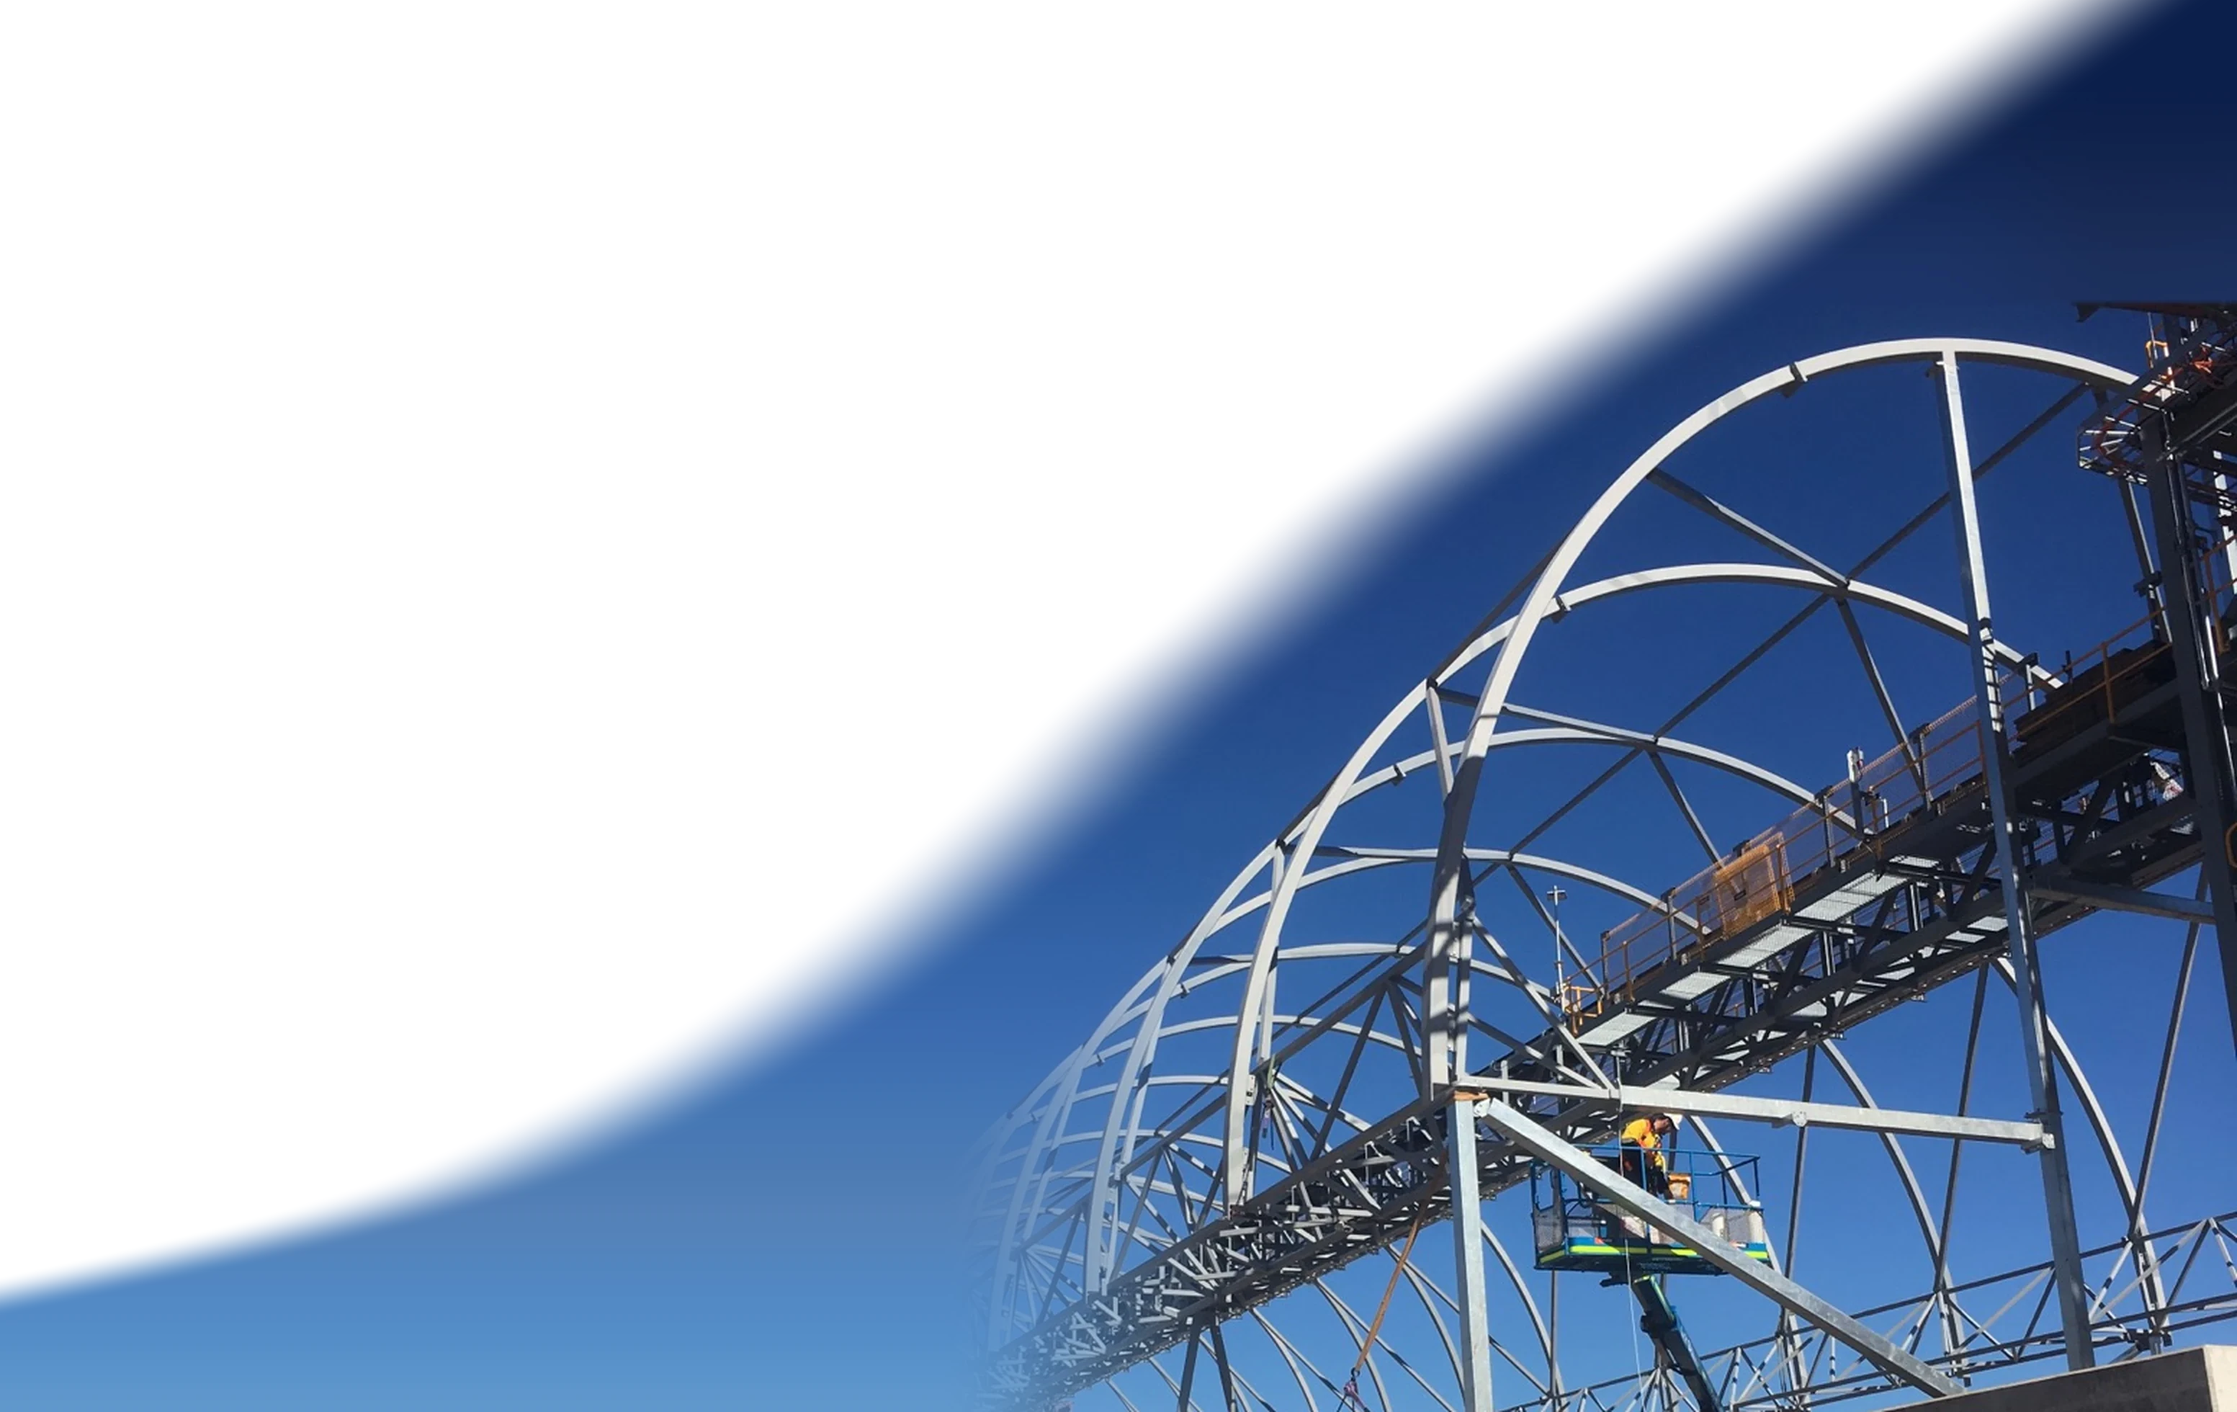
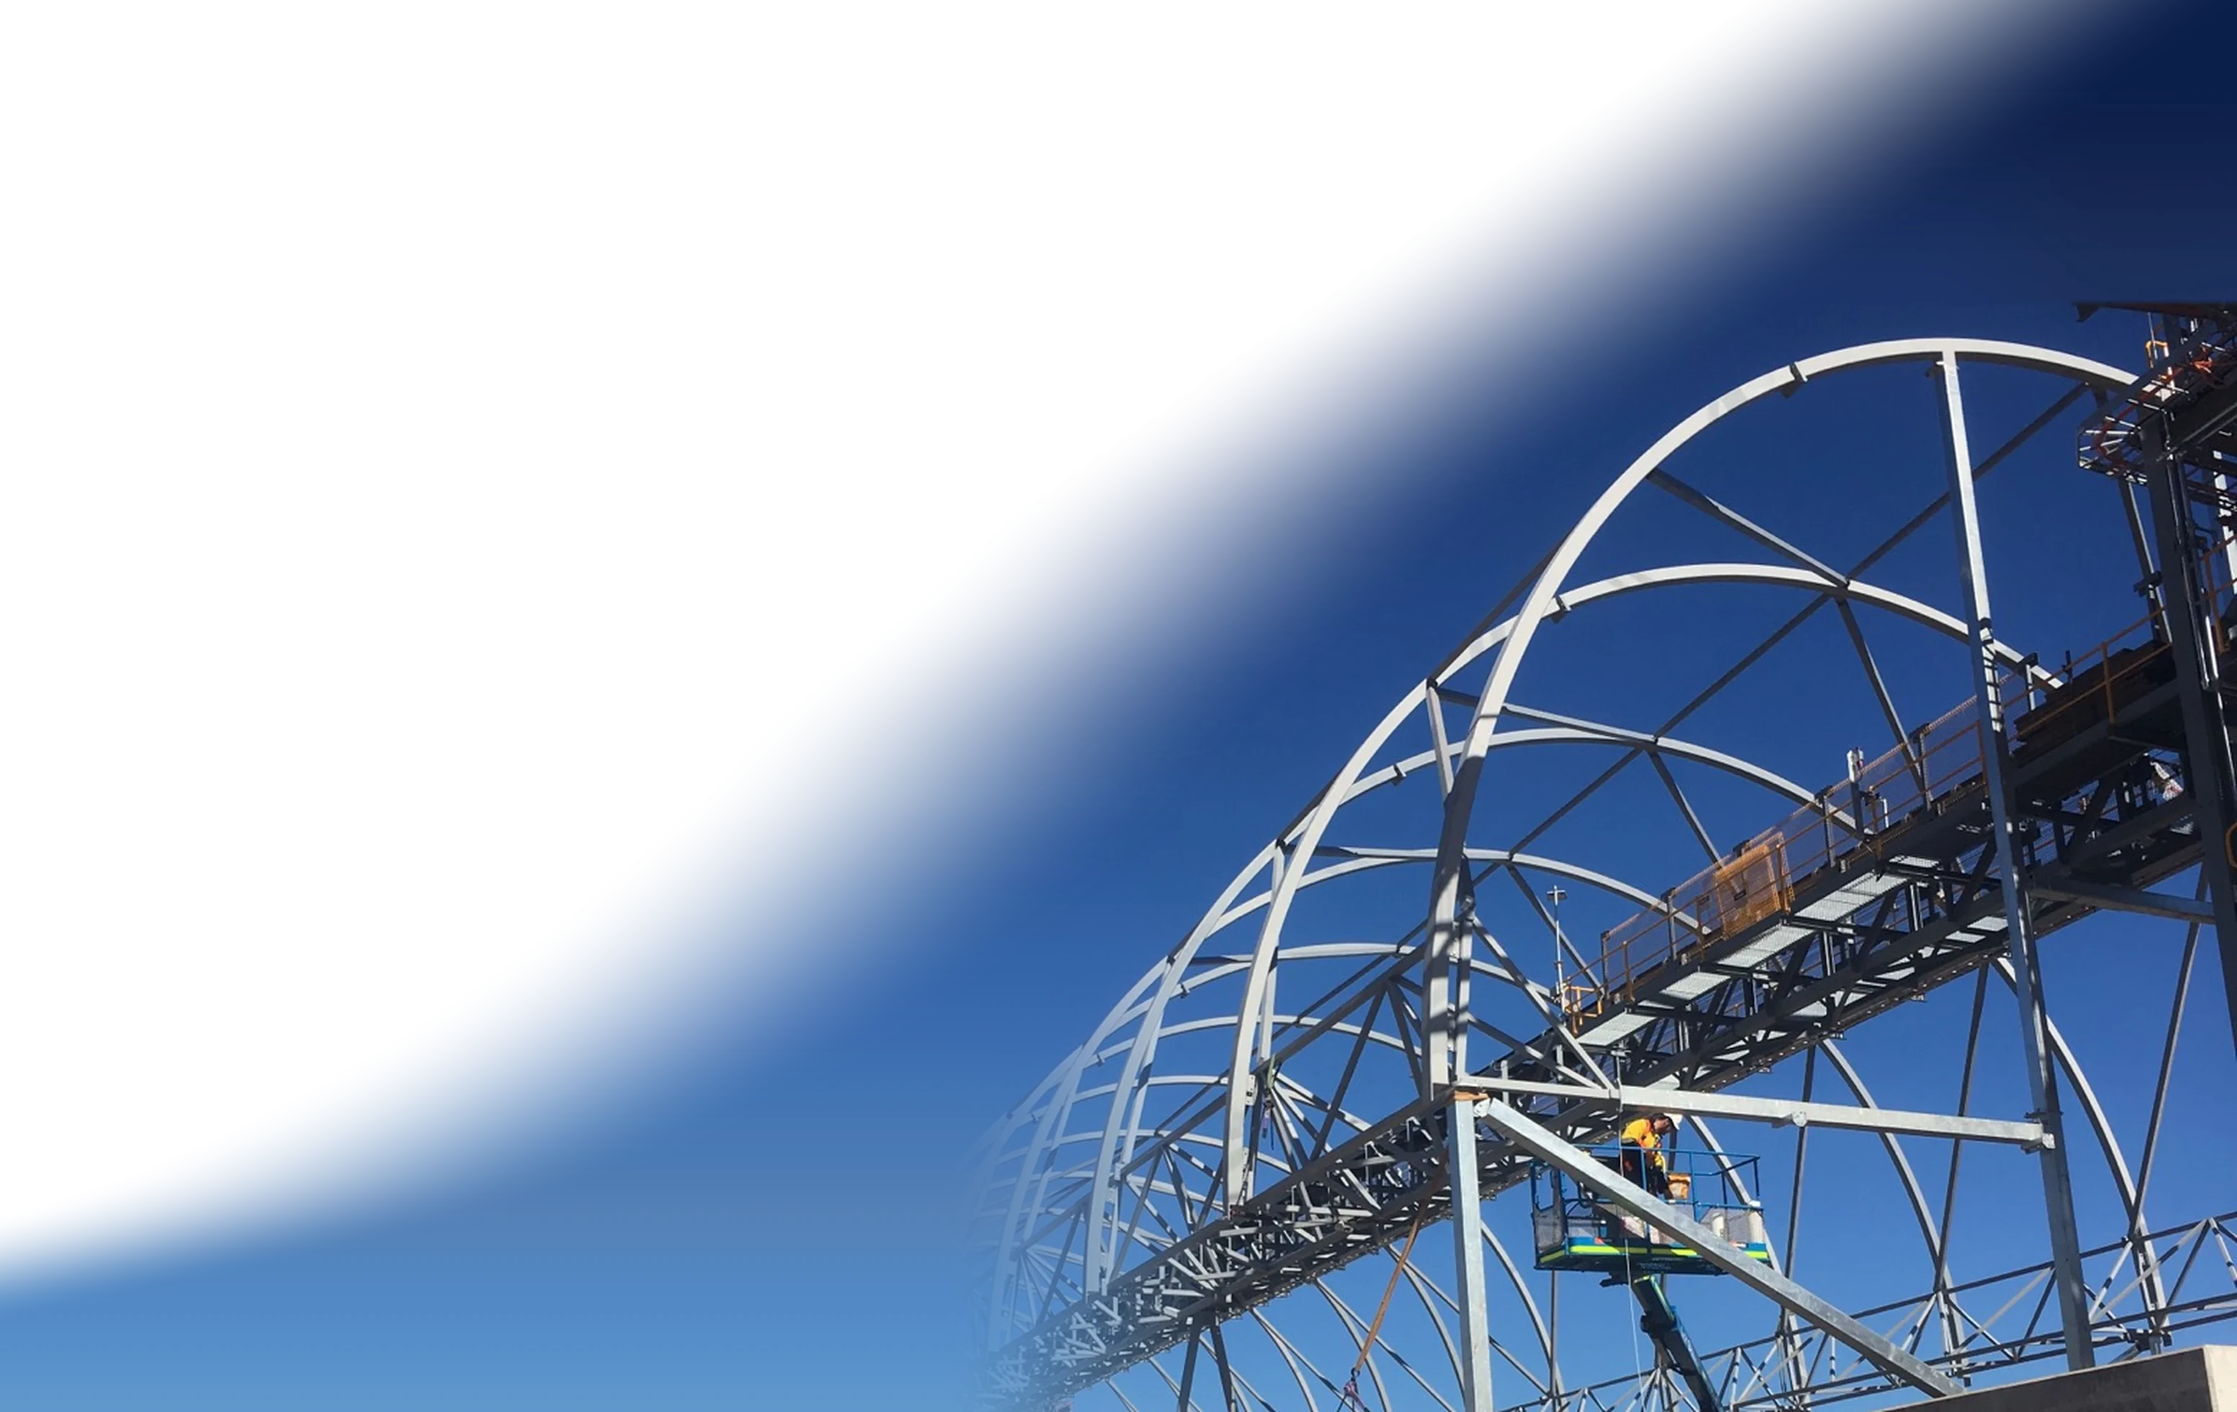
Hero photo: soft wide fade along the whole diagonal edge, matching the bottom fade
Claude-Session: https://claude.ai/code/session_0158Fftx2yiYDSvStLzRsbkD

Changed region(s): [[0.0, 0.0, 0.9681, 0.9337]]

diff --git a/site/index.html b/site/index.html
@@ -2,16 +2,16 @@
 <html lang="en">
 <head>
 <meta charset="utf-8">
-<meta name="build" content="57">
+<meta name="build" content="58">
 <meta name="viewport" content="width=device-width, initial-scale=1, viewport-fit=cover">
 <meta name="description" content="GuruCADD: production drawings, conceptual sales drawings, light gauge modular building design and CAD-to-ERP integration for fabric structures and steel fabricators. Based in Khulna, Bangladesh.">
 <meta property="og:title" content="GuruCADD | Designing Excellence">
 <meta property="og:description" content="CAD and steel detailing for fabric structures, steel frames and modular buildings.">
-<meta property="og:image" content="https://www.gurucadd.com/images/hero-site.webp?v=57">
+<meta property="og:image" content="https://www.gurucadd.com/images/hero-site.webp?v=58">
 <link rel="icon" type="image/png" href="images/favicon.png">
 <link rel="canonical" href="https://www.gurucadd.com/">
 <meta property="og:type" content="website"><meta property="og:url" content="https://www.gurucadd.com/"><meta name="twitter:card" content="summary_large_image">
-<script type="application/ld+json">{"@context":"https://schema.org","@type":"ProfessionalService","name":"GuruCADD","description":"CAD and steel detailing, conceptual sales drawings, light gauge modular building design and CAD-to-ERP integration.","url":"https://www.gurucadd.com/","logo":"https://www.gurucadd.com/images/favicon.png","image":"https://www.gurucadd.com/images/hero-site.webp?v=57","telephone":"+880 1711 902929","email":"info@gurucadd.com","address":{"@type":"PostalAddress","streetAddress":"E4 Khalishpur","addressLocality":"Khulna","postalCode":"9000","addressCountry":"BD"}}</script>
+<script type="application/ld+json">{"@context":"https://schema.org","@type":"ProfessionalService","name":"GuruCADD","description":"CAD and steel detailing, conceptual sales drawings, light gauge modular building design and CAD-to-ERP integration.","url":"https://www.gurucadd.com/","logo":"https://www.gurucadd.com/images/favicon.png","image":"https://www.gurucadd.com/images/hero-site.webp?v=58","telephone":"+880 1711 902929","email":"info@gurucadd.com","address":{"@type":"PostalAddress","streetAddress":"E4 Khalishpur","addressLocality":"Khulna","postalCode":"9000","addressCountry":"BD"}}</script>
 <style>
 :root{padding-top:env(safe-area-inset-top,0px);padding-bottom:env(safe-area-inset-bottom,0px)}
 body{margin:0}
@@ -469,7 +469,7 @@ mask-image:linear-gradient(to right,transparent 0,#000 34%),linear-gradient(to b
 </style>
 </head>
 <body>
-<span id="build" class="bld">Ver 0.57.0</span>
+<span id="build" class="bld">Ver 0.58.0</span>
 <header>
   <div class="wrap nav">
     <a class="logo" href="#top" aria-label="GuruCADD home"><img class="dk-logo" src="images/logo-white.png" width="421" height="120" alt="GuruCADD, Designing Excellence"><img class="lt-logo" src="images/logo-color.png" width="878" height="238" alt="" aria-hidden="true"></a>
@@ -494,7 +494,7 @@ mask-image:linear-gradient(to right,transparent 0,#000 34%),linear-gradient(to b
     </div>
   </div>
   <figure class="hero-photo">
-    <img src="images/hero-site.webp?v=57" width="3106" height="1960" alt="Arched steel structure erected on site against a deep blue sky, detailed by GuruCADD">
+    <img src="images/hero-site.webp?v=58" width="3106" height="1960" alt="Arched steel structure erected on site against a deep blue sky, detailed by GuruCADD">
     <span class="ph-tag ph-right">Erected on site</span>
     <figcaption><span class="wrap cap-in"><span class="kicker">From drawing to steel</span><span>Detailed in our office, built exactly as drawn to protect your investment.</span></span></figcaption>
   </figure>

diff --git a/site/about-us.html b/site/about-us.html
@@ -2,16 +2,16 @@
 <html lang="en">
 <head>
 <meta charset="utf-8">
-<meta name="build" content="57">
+<meta name="build" content="58">
 <meta name="viewport" content="width=device-width, initial-scale=1, viewport-fit=cover">
 <meta name="description" content="A Khulna drawing office of architects, engineers and ERP specialists, with industries served and case studies.">
 <meta property="og:title" content="About us | GuruCADD">
 <meta property="og:description" content="CAD and steel detailing for fabric structures, steel frames and modular buildings.">
-<meta property="og:image" content="https://www.gurucadd.com/images/hero-site.webp?v=57">
+<meta property="og:image" content="https://www.gurucadd.com/images/hero-site.webp?v=58">
 <link rel="icon" type="image/png" href="images/favicon.png">
 
 <meta property="og:type" content="website"><meta property="og:url" content="https://www.gurucadd.com/"><meta name="twitter:card" content="summary_large_image">
-<script type="application/ld+json">{"@context":"https://schema.org","@type":"ProfessionalService","name":"GuruCADD","description":"CAD and steel detailing, conceptual sales drawings, light gauge modular building design and CAD-to-ERP integration.","url":"https://www.gurucadd.com/","logo":"https://www.gurucadd.com/images/favicon.png","image":"https://www.gurucadd.com/images/hero-site.webp?v=57","telephone":"+880 1711 902929","email":"info@gurucadd.com","address":{"@type":"PostalAddress","streetAddress":"E4 Khalishpur","addressLocality":"Khulna","postalCode":"9000","addressCountry":"BD"}}</script>
+<script type="application/ld+json">{"@context":"https://schema.org","@type":"ProfessionalService","name":"GuruCADD","description":"CAD and steel detailing, conceptual sales drawings, light gauge modular building design and CAD-to-ERP integration.","url":"https://www.gurucadd.com/","logo":"https://www.gurucadd.com/images/favicon.png","image":"https://www.gurucadd.com/images/hero-site.webp?v=58","telephone":"+880 1711 902929","email":"info@gurucadd.com","address":{"@type":"PostalAddress","streetAddress":"E4 Khalishpur","addressLocality":"Khulna","postalCode":"9000","addressCountry":"BD"}}</script>
 <style>
 :root{padding-top:env(safe-area-inset-top,0px);padding-bottom:env(safe-area-inset-bottom,0px)}
 body{margin:0}
@@ -470,7 +470,7 @@ mask-image:linear-gradient(to right,transparent 0,#000 34%),linear-gradient(to b
 <link rel="canonical" href="https://www.gurucadd.com/about-us.html">
 </head>
 <body>
-<span id="build" class="bld">Ver 0.57.0</span>
+<span id="build" class="bld">Ver 0.58.0</span>
 <header>
   <div class="wrap nav">
     <a class="logo" href="index.html" aria-label="GuruCADD home"><img class="dk-logo" src="images/logo-white.png" width="421" height="120" alt="GuruCADD, Designing Excellence"><img class="lt-logo" src="images/logo-color.png" width="878" height="238" alt="" aria-hidden="true"></a>

diff --git a/site/services.html b/site/services.html
@@ -2,16 +2,16 @@
 <html lang="en">
 <head>
 <meta charset="utf-8">
-<meta name="build" content="57">
+<meta name="build" content="58">
 <meta name="viewport" content="width=device-width, initial-scale=1, viewport-fit=cover">
 <meta name="description" content="Production drawings, conceptual sales drawings, ERP integration and light gauge modular building design.">
 <meta property="og:title" content="Services | GuruCADD">
 <meta property="og:description" content="CAD and steel detailing for fabric structures, steel frames and modular buildings.">
-<meta property="og:image" content="https://www.gurucadd.com/images/hero-site.webp?v=57">
+<meta property="og:image" content="https://www.gurucadd.com/images/hero-site.webp?v=58">
 <link rel="icon" type="image/png" href="images/favicon.png">
 
 <meta property="og:type" content="website"><meta property="og:url" content="https://www.gurucadd.com/"><meta name="twitter:card" content="summary_large_image">
-<script type="application/ld+json">{"@context":"https://schema.org","@type":"ProfessionalService","name":"GuruCADD","description":"CAD and steel detailing, conceptual sales drawings, light gauge modular building design and CAD-to-ERP integration.","url":"https://www.gurucadd.com/","logo":"https://www.gurucadd.com/images/favicon.png","image":"https://www.gurucadd.com/images/hero-site.webp?v=57","telephone":"+880 1711 902929","email":"info@gurucadd.com","address":{"@type":"PostalAddress","streetAddress":"E4 Khalishpur","addressLocality":"Khulna","postalCode":"9000","addressCountry":"BD"}}</script>
+<script type="application/ld+json">{"@context":"https://schema.org","@type":"ProfessionalService","name":"GuruCADD","description":"CAD and steel detailing, conceptual sales drawings, light gauge modular building design and CAD-to-ERP integration.","url":"https://www.gurucadd.com/","logo":"https://www.gurucadd.com/images/favicon.png","image":"https://www.gurucadd.com/images/hero-site.webp?v=58","telephone":"+880 1711 902929","email":"info@gurucadd.com","address":{"@type":"PostalAddress","streetAddress":"E4 Khalishpur","addressLocality":"Khulna","postalCode":"9000","addressCountry":"BD"}}</script>
 <style>
 :root{padding-top:env(safe-area-inset-top,0px);padding-bottom:env(safe-area-inset-bottom,0px)}
 body{margin:0}
@@ -470,7 +470,7 @@ mask-image:linear-gradient(to right,transparent 0,#000 34%),linear-gradient(to b
 <link rel="canonical" href="https://www.gurucadd.com/services.html">
 </head>
 <body>
-<span id="build" class="bld">Ver 0.57.0</span>
+<span id="build" class="bld">Ver 0.58.0</span>
 <header>
   <div class="wrap nav">
     <a class="logo" href="index.html" aria-label="GuruCADD home"><img class="dk-logo" src="images/logo-white.png" width="421" height="120" alt="GuruCADD, Designing Excellence"><img class="lt-logo" src="images/logo-color.png" width="878" height="238" alt="" aria-hidden="true"></a>

diff --git a/site/contact-us.html b/site/contact-us.html
@@ -2,16 +2,16 @@
 <html lang="en">
 <head>
 <meta charset="utf-8">
-<meta name="build" content="57">
+<meta name="build" content="58">
 <meta name="viewport" content="width=device-width, initial-scale=1, viewport-fit=cover">
 <meta name="description" content="Send a sketch or project details and get a free quote from GuruCADD, Khulna, Bangladesh.">
 <meta property="og:title" content="Contact | GuruCADD">
 <meta property="og:description" content="CAD and steel detailing for fabric structures, steel frames and modular buildings.">
-<meta property="og:image" content="https://www.gurucadd.com/images/hero-site.webp?v=57">
+<meta property="og:image" content="https://www.gurucadd.com/images/hero-site.webp?v=58">
 <link rel="icon" type="image/png" href="images/favicon.png">
 
 <meta property="og:type" content="website"><meta property="og:url" content="https://www.gurucadd.com/"><meta name="twitter:card" content="summary_large_image">
-<script type="application/ld+json">{"@context":"https://schema.org","@type":"ProfessionalService","name":"GuruCADD","description":"CAD and steel detailing, conceptual sales drawings, light gauge modular building design and CAD-to-ERP integration.","url":"https://www.gurucadd.com/","logo":"https://www.gurucadd.com/images/favicon.png","image":"https://www.gurucadd.com/images/hero-site.webp?v=57","telephone":"+880 1711 902929","email":"info@gurucadd.com","address":{"@type":"PostalAddress","streetAddress":"E4 Khalishpur","addressLocality":"Khulna","postalCode":"9000","addressCountry":"BD"}}</script>
+<script type="application/ld+json">{"@context":"https://schema.org","@type":"ProfessionalService","name":"GuruCADD","description":"CAD and steel detailing, conceptual sales drawings, light gauge modular building design and CAD-to-ERP integration.","url":"https://www.gurucadd.com/","logo":"https://www.gurucadd.com/images/favicon.png","image":"https://www.gurucadd.com/images/hero-site.webp?v=58","telephone":"+880 1711 902929","email":"info@gurucadd.com","address":{"@type":"PostalAddress","streetAddress":"E4 Khalishpur","addressLocality":"Khulna","postalCode":"9000","addressCountry":"BD"}}</script>
 <style>
 :root{padding-top:env(safe-area-inset-top,0px);padding-bottom:env(safe-area-inset-bottom,0px)}
 body{margin:0}
@@ -470,7 +470,7 @@ mask-image:linear-gradient(to right,transparent 0,#000 34%),linear-gradient(to b
 <link rel="canonical" href="https://www.gurucadd.com/contact-us.html">
 </head>
 <body>
-<span id="build" class="bld">Ver 0.57.0</span>
+<span id="build" class="bld">Ver 0.58.0</span>
 <header>
   <div class="wrap nav">
     <a class="logo" href="index.html" aria-label="GuruCADD home"><img class="dk-logo" src="images/logo-white.png" width="421" height="120" alt="GuruCADD, Designing Excellence"><img class="lt-logo" src="images/logo-color.png" width="878" height="238" alt="" aria-hidden="true"></a>

diff --git a/site/gallery.html b/site/gallery.html
@@ -2,16 +2,16 @@
 <html lang="en">
 <head>
 <meta charset="utf-8">
-<meta name="build" content="57">
+<meta name="build" content="58">
 <meta name="viewport" content="width=device-width, initial-scale=1, viewport-fit=cover">
 <meta name="description" content="Real production, conceptual and modular drawing sheets from GuruCADD projects.">
 <meta property="og:title" content="Drawing samples | GuruCADD">
 <meta property="og:description" content="CAD and steel detailing for fabric structures, steel frames and modular buildings.">
-<meta property="og:image" content="https://www.gurucadd.com/images/hero-site.webp?v=57">
+<meta property="og:image" content="https://www.gurucadd.com/images/hero-site.webp?v=58">
 <link rel="icon" type="image/png" href="images/favicon.png">
 
 <meta property="og:type" content="website"><meta property="og:url" content="https://www.gurucadd.com/"><meta name="twitter:card" content="summary_large_image">
-<script type="application/ld+json">{"@context":"https://schema.org","@type":"ProfessionalService","name":"GuruCADD","description":"CAD and steel detailing, conceptual sales drawings, light gauge modular building design and CAD-to-ERP integration.","url":"https://www.gurucadd.com/","logo":"https://www.gurucadd.com/images/favicon.png","image":"https://www.gurucadd.com/images/hero-site.webp?v=57","telephone":"+880 1711 902929","email":"info@gurucadd.com","address":{"@type":"PostalAddress","streetAddress":"E4 Khalishpur","addressLocality":"Khulna","postalCode":"9000","addressCountry":"BD"}}</script>
+<script type="application/ld+json">{"@context":"https://schema.org","@type":"ProfessionalService","name":"GuruCADD","description":"CAD and steel detailing, conceptual sales drawings, light gauge modular building design and CAD-to-ERP integration.","url":"https://www.gurucadd.com/","logo":"https://www.gurucadd.com/images/favicon.png","image":"https://www.gurucadd.com/images/hero-site.webp?v=58","telephone":"+880 1711 902929","email":"info@gurucadd.com","address":{"@type":"PostalAddress","streetAddress":"E4 Khalishpur","addressLocality":"Khulna","postalCode":"9000","addressCountry":"BD"}}</script>
 <style>
 :root{padding-top:env(safe-area-inset-top,0px);padding-bottom:env(safe-area-inset-bottom,0px)}
 body{margin:0}
@@ -470,7 +470,7 @@ mask-image:linear-gradient(to right,transparent 0,#000 34%),linear-gradient(to b
 <link rel="canonical" href="https://www.gurucadd.com/gallery.html">
 </head>
 <body>
-<span id="build" class="bld">Ver 0.57.0</span>
+<span id="build" class="bld">Ver 0.58.0</span>
 <header>
   <div class="wrap nav">
     <a class="logo" href="index.html" aria-label="GuruCADD home"><img class="dk-logo" src="images/logo-white.png" width="421" height="120" alt="GuruCADD, Designing Excellence"><img class="lt-logo" src="images/logo-color.png" width="878" height="238" alt="" aria-hidden="true"></a>
